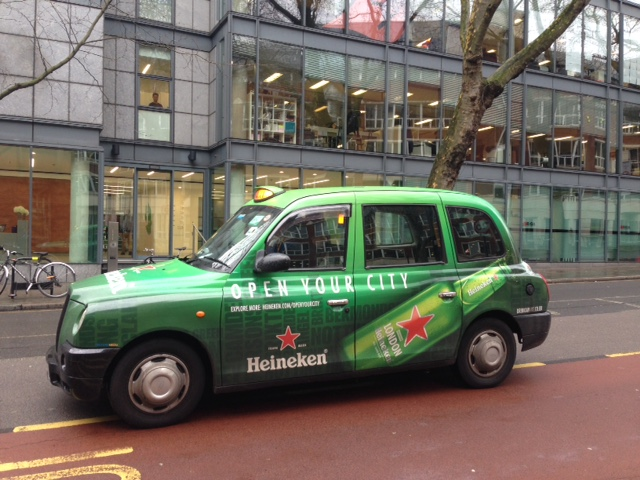
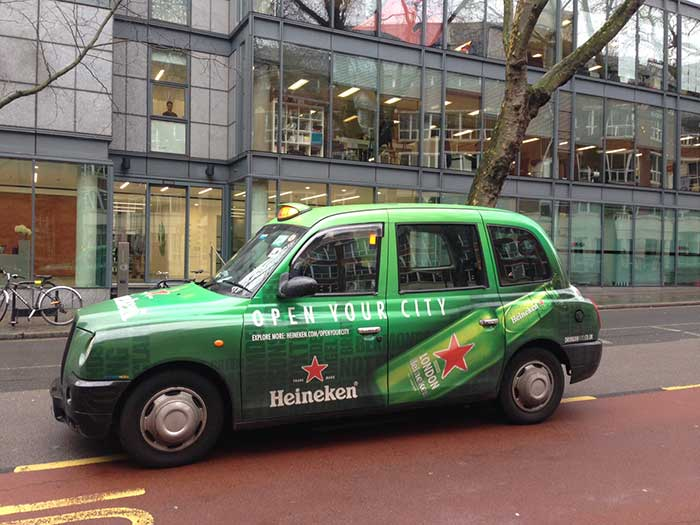
added larger taxi image. changed the webfonts to open source Source Sans. made some text changes to yearnote.

diff --git a/source/stylesheets/partials/_type.css.scss b/source/stylesheets/partials/_type.css.scss
@@ -1,10 +1,7 @@
 body {
-	font-family: "Monosten F", Courier, monospace;
+	font-family: 'Source Sans Pro', sans-serif;
 	font-weight: 200;
 	font-style: normal;
-	@include media($small-screen-only) {
-		font-size: $base-font-size*0.8;
-	}
 }
 
 h1,
@@ -13,7 +10,7 @@ h3,
 h4,
 h5,
 h6 {
-  font-family: "Din Monospace Medium", Courier, monospace;
+  font-family: 'Source Serif Pro', serif;
   font-weight: 500;
   font-style:normal;
 }
@@ -32,14 +29,12 @@ h3, h4, h5 {
 }
 
 h4 {
-	font-weight: bold;
+	
 }
 
 p {
 	line-height: $base-font-size * 2;
 	margin-bottom: $base-font-size * 2;
-	@include media($small-screen-only) {
-		line-height: $base-line-height*0.9;
-	}
+	font-size: $base-font-size * 1.25;
 }
 
